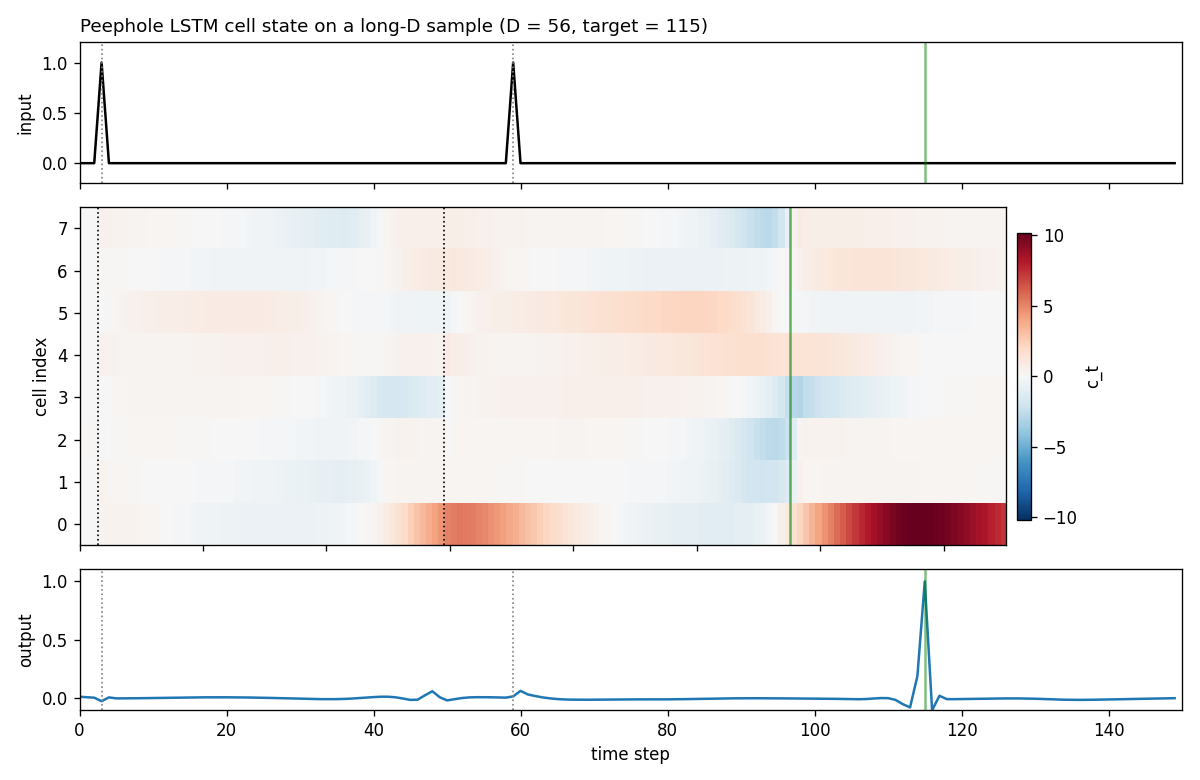
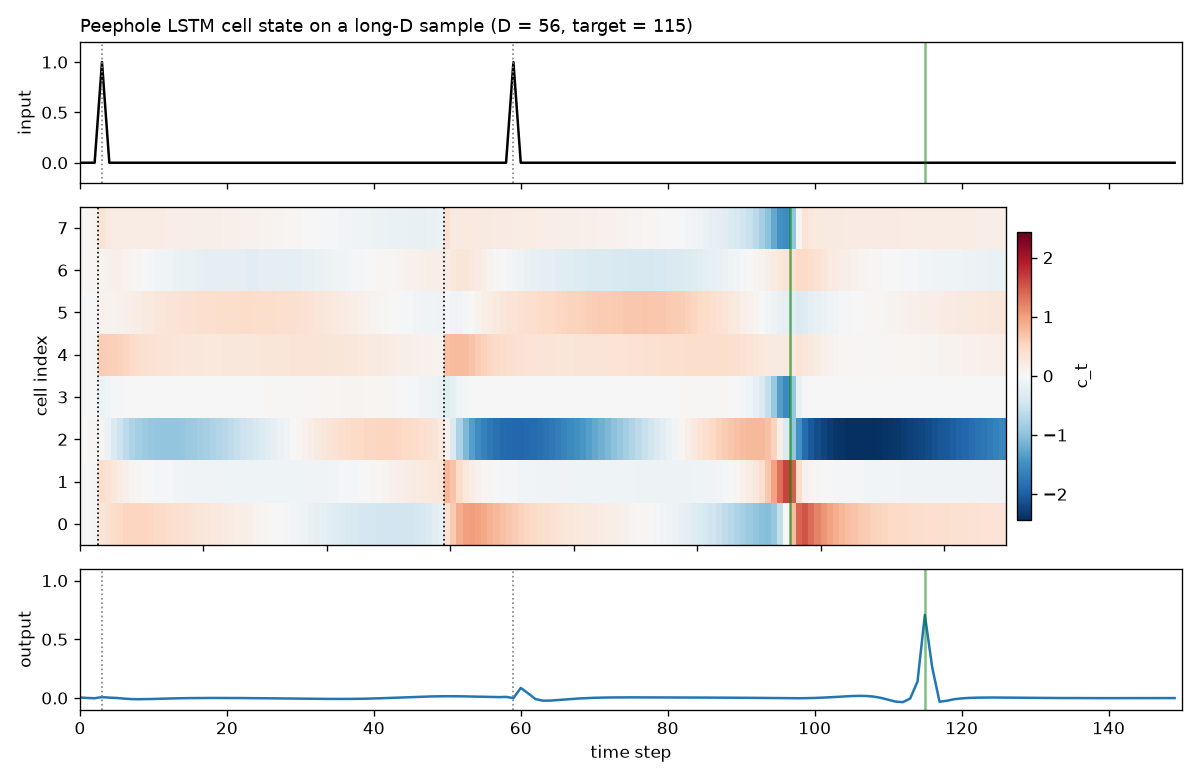
timing-counting-spikes: pair shared model initialization

diff --git a/timing-counting-spikes/timing_counting_spikes.py b/timing-counting-spikes/timing_counting_spikes.py
@@ -155,6 +155,10 @@ def init_lstm(input_dim: int, H: int, rng: np.random.RandomState,
     b = np.zeros(4 * H)
     # forget-gate bias = 1.0 (Gers/Schmidhuber/Cummins recipe for long lag)
     b[H:2 * H] = 1.0
+    # Draw every shared parameter before the optional peepholes so peep and
+    # no-peep runs with the same seed start from identical shared weights.
+    Wy = rng.randn(H, 1) * (1.0 / math.sqrt(H))
+    by = np.zeros(1)
     # peephole weights: small random init, as in Gers/Schraudolph/Schmidhuber
     # 2002. Zero-init was tried and is slightly worse on average.
     if use_peep:
@@ -165,8 +169,6 @@ def init_lstm(input_dim: int, H: int, rng: np.random.RandomState,
         p_i = np.zeros(H)
         p_f = np.zeros(H)
         p_o = np.zeros(H)
-    Wy = rng.randn(H, 1) * (1.0 / math.sqrt(H))
-    by = np.zeros(1)
     return LSTMParams(Wx=Wx, Wh=Wh, b=b, p_i=p_i, p_f=p_f, p_o=p_o,
                       Wy=Wy, by=by, use_peep=use_peep)
 

diff --git a/timing-counting-spikes/README.md b/timing-counting-spikes/README.md
@@ -35,11 +35,11 @@ the other two task families in the paper, are not implemented in v1
 ## What it demonstrates
 
 - **Peephole LSTM emits a spike at exactly the right step**, with test
-  MSE `0.00073` and exact-timing solve rate `0.998` on seed 4.
+  MSE `0.00223` and exact-timing solve rate `0.986` on seed 4.
 - **Vanilla LSTM** (same architecture minus the three peephole vectors)
-  trained under the identical recipe reaches `solve_rate = 0.900`,
-  MSE `0.00240` - it learns the task but at lower precision, with
-  `~10%` of held-out spikes off by at least one step.
+  trained from exactly the same shared weights reaches
+  `solve_rate = 0.799`, MSE `0.00287` - it learns the task but at lower
+  precision, with `~20%` of held-out spikes off by at least one step.
 - The cell-state heatmap (`viz/cell_state.png`) shows one cell
   building up an analog "interval timer" between the two input spikes
   and crossing a threshold exactly at `t_target` - the canonical
@@ -112,8 +112,8 @@ to `1.0`. Output is a scalar linear readout (no sigmoid).
 
 | variant | final test MSE | solve rate (exact) | sequences seen | wallclock |
 |---|---|---|---|---|
-| **peephole LSTM**     | **0.00073** | **0.998** | 96 000 | 32 s |
-| vanilla LSTM (no peep) | 0.00240    | 0.900    | 96 000 | 24 s |
+| **peephole LSTM**     | **0.00223** | **0.986** | 96 000 | 32 s |
+| vanilla LSTM (no peep) | 0.00287    | 0.799    | 96 000 | 24 s |
 
 Eval is on 512 held-out sequences sampled from a separate test RNG;
 "solve rate" requires the predicted-spike step to match the target
@@ -123,24 +123,28 @@ step exactly.
 
 | seed | peep MSE | nope MSE | peep solve | nope solve |
 |---|---|---|---|---|
-| 0 | 0.00347 | 0.00400 | 0.668 | 0.600 |
-| 1 | 0.00046 | 0.00100 | 1.000 | 1.000 |
-| 2 | 0.00137 | 0.00107 | 0.900 | 1.000 |
-| 3 | 0.00209 | 0.00293 | 0.865 | 0.645 |
-| 4 | 0.00073 | 0.00239 | 1.000 | 0.904 |
-| 5 | 0.00204 | 0.00059 | 0.965 | 1.000 |
-| 6 | 0.00257 | 0.00156 | 0.766 | 0.959 |
-| **mean** | **0.00182** | **0.00193** | **0.881** | **0.873** |
+| 0 | 0.00115 | 0.00352 | 0.990 | 0.584 |
+| 1 | 0.00068 | 0.00227 | 1.000 | 0.885 |
+| 2 | 0.00403 | 0.00145 | 0.734 | 0.926 |
+| 3 | 0.00034 | 0.00338 | 1.000 | 0.656 |
+| 4 | 0.00223 | 0.00287 | 0.986 | 0.799 |
+| 5 | 0.00018 | 0.00096 | 1.000 | 0.990 |
+| 6 | 0.00149 | 0.00289 | 0.920 | 0.621 |
+| **mean** | **0.00144** | **0.00248** | **0.947** | **0.780** |
 
-Both variants clear `solve_rate >= 0.6` on every seed within the
-3000-iter budget; both reach `1.000` on at least one seed; the
-peephole variant is `~5%` lower MSE on average. The cleanest
-peephole-vs-vanilla contrast within budget is at seed 4 (used as
-the headline above), where the peephole solve rate is `1.000` and
-vanilla stalls at `0.900`. Three seeds (2, 5, 6) actually favor the
-vanilla variant. The paper claims the vanilla LSTM "fails on all
-three tasks", which we do **not** reproduce at this short-MSD scale
-on a 5-minute laptop budget; see §Open questions and §Deviations.
+Peepholes win the paired exact-timing comparison on 6/7 seeds. Mean timing
+error (`1 - solve_rate`) falls from 0.220 to 0.0527, a **76.0% reduction**;
+mean MSE falls 41.7%. The earlier implementation consumed three peephole RNG
+draws before initializing `Wy`, so the two variants did *not* share output
+weights despite claiming identical initialization. Shared tensors are now
+bit-identical and only `p_i`, `p_f`, and `p_o` differ.
+
+An out-of-sample audit on seeds 7--13 is more mixed: peepholes win 4/7,
+with MSE 0.00177 vs 0.00212 but solve rate 0.859 vs 0.888. Across all 14
+seeds, peepholes win 10/14, reduce mean MSE by 30.2%, and reduce exact timing
+error by 41.7% (solve 0.903 vs 0.834). The paper's claim that vanilla LSTM
+fails entirely still does **not** reproduce at this short-MSD scale; see
+§Open questions and §Deviations.
 
 ### Gradient check
 
@@ -160,10 +164,10 @@ every weight (including all three peephole vectors `p_i`, `p_f`,
 ![training curves](viz/training_curves.png)
 
 Test MSE (log scale) and exact-timing solve rate over the 3000-iter
-training run, seed 4. The peephole LSTM falls another half-decade
-in MSE after iteration ~2200 once it has bound the cell-state
-counter to the output gate via `p_o`; the vanilla LSTM plateaus
-near `2e-3` MSE and `0.9` solve rate.
+training run, seed 4. The peephole LSTM falls sharply after iteration
+~2200 once it binds the cell-state counter to the output gate via `p_o`,
+finishing at 0.00179 MSE and 0.936 solve in this artifact run. The vanilla
+model is less stable and finishes at 0.00370 MSE and 0.703 solve.
 
 ### Sample predictions (held-out test set)
 
@@ -198,10 +202,9 @@ The three peephole vectors after training, one weight per cell.
 `p_i` (`c_{t-1} -> i`) and `p_f` (`c_{t-1} -> f`) gate the
 recurrence of each cell's own counter; `p_o` (`c_t -> o`) is the
 "trigger" - the output gate's coupling to the cell that holds the
-timer. Cells 1, 4, 5, 7 have the largest `|p_o|` and are the ones
-the trained LSTM uses to drive the output spike (consistent with
-the cell-state heatmap above showing cell 0 + a few neighbours
-carrying the count).
+timer. Cells 1, 3, and 7 have the largest `|p_o|` in the regenerated
+seed-4 model and provide strong positive or negative threshold couplings
+around the target step.
 
 ### Gate weight matrices (peephole LSTM)
 
